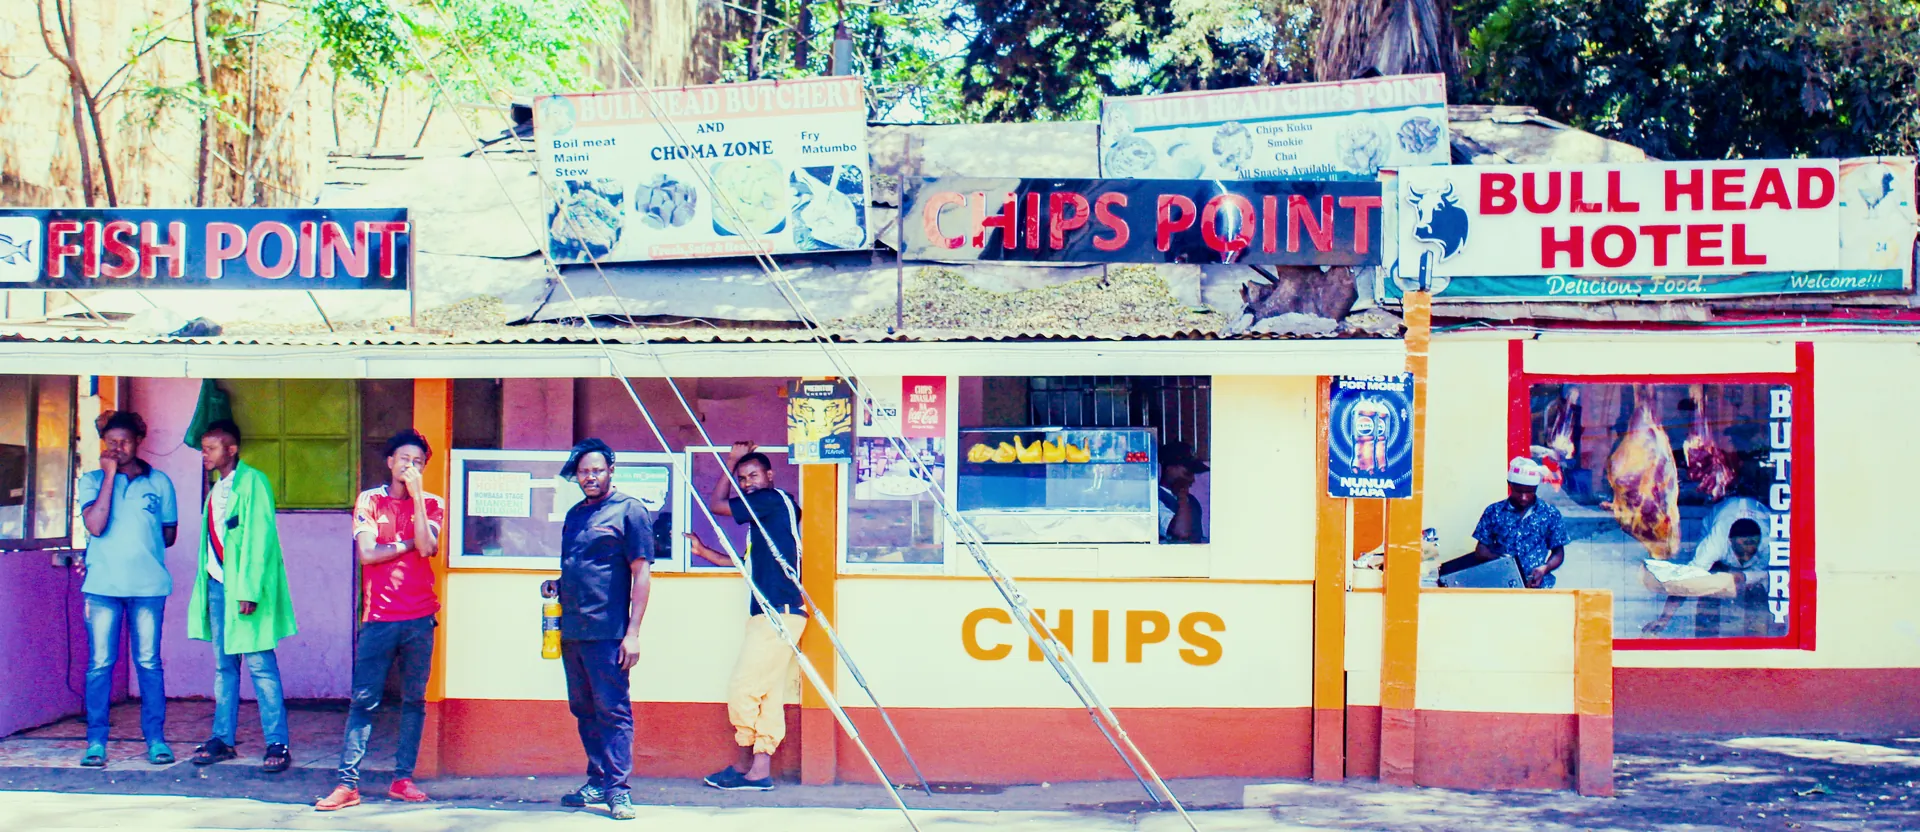
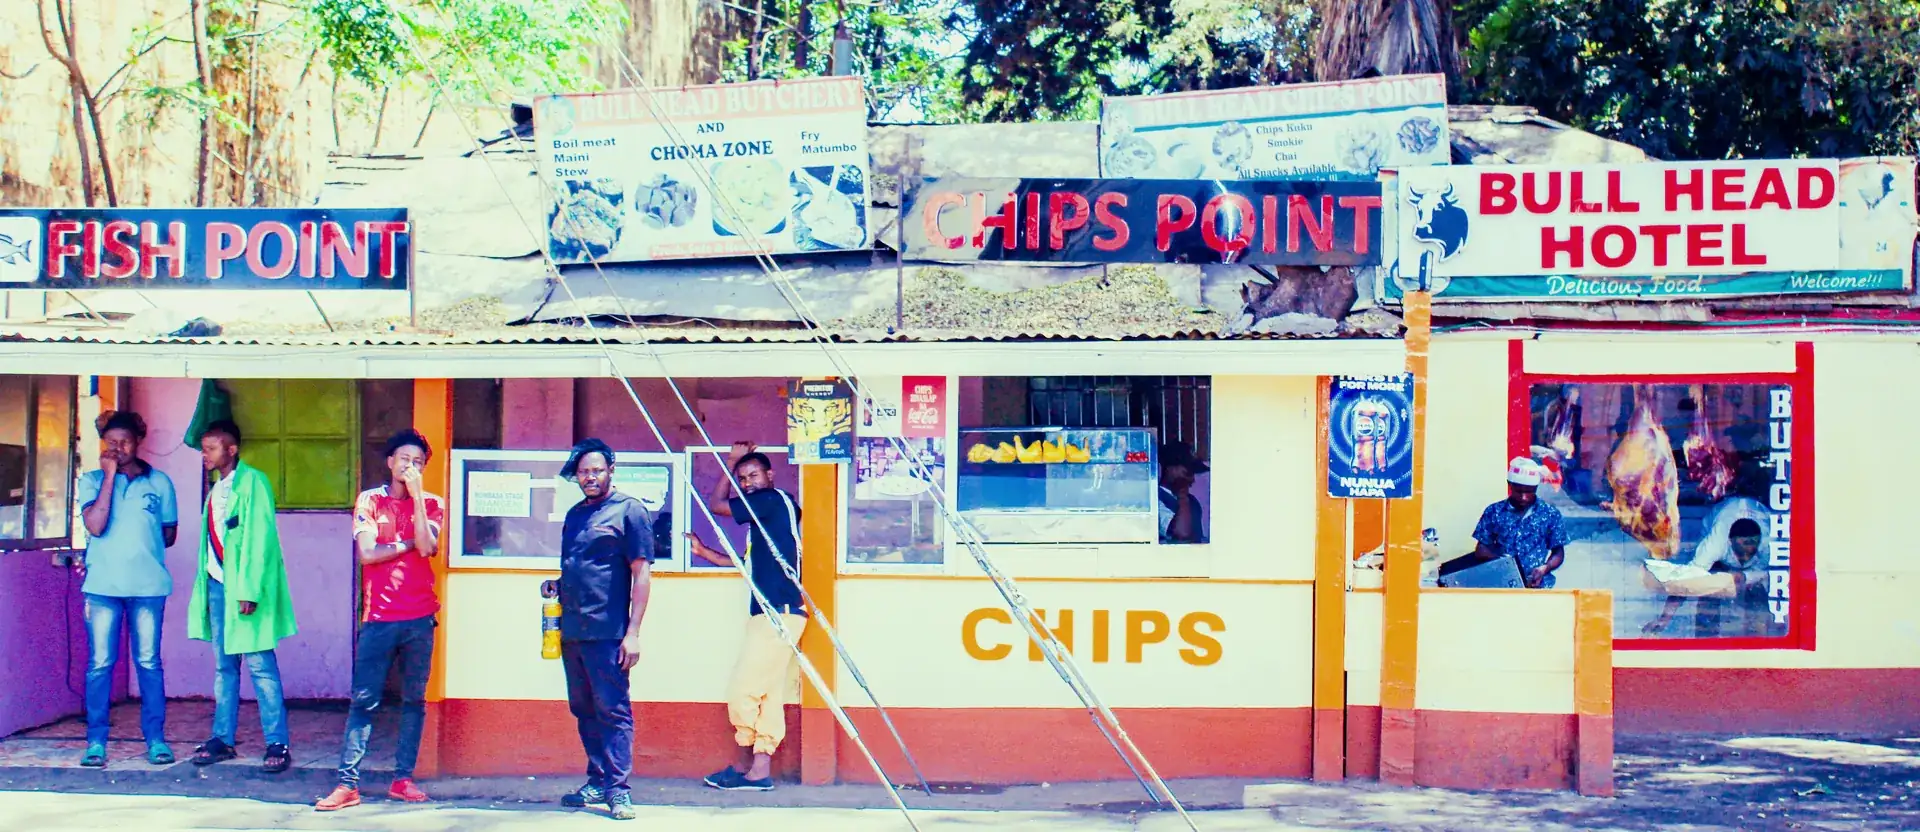
perf: hero preload + recompress, 900w variants for lazy images, webp for storefront card

diff --git a/bullhead-site/index.html b/bullhead-site/index.html
@@ -25,6 +25,7 @@
 <link rel="preconnect" href="https://fonts.gstatic.com" crossorigin>
 <link rel="preload" as="style" href="https://fonts.googleapis.com/css2?family=Fraunces:ital,opsz,wght@0,9..144,400;0,9..144,500;0,9..144,600;0,9..144,700;1,9..144,500&family=Inter:wght@400;500;600;700&display=swap" onload="this.onload=null;this.rel='stylesheet'">
 <noscript><link rel="stylesheet" href="https://fonts.googleapis.com/css2?family=Fraunces:ital,opsz,wght@0,9..144,400;0,9..144,500;0,9..144,600;0,9..144,700;1,9..144,500&family=Inter:wght@400;500;600;700&display=swap"></noscript>
+<link rel="preload" as="image" href="assets/img/hero-storefront.webp" type="image/webp" fetchpriority="high">
 <link rel="stylesheet" href="css/style.css?v=11">
 <link rel="stylesheet" href="css/relay.css?v=2">
 <script type="application/ld+json">
@@ -235,7 +236,7 @@
   <!-- CONDENSED STORY -->
   <section class="story">
     <div class="story-media">
-      <picture><source srcset="assets/img/story-chef-oven.webp" type="image/webp"><img src="assets/img/story-chef-oven.jpg" alt="A Bullhead cook tending the charcoal oven" loading="lazy" decoding="async" width="1200" height="1440"></picture>
+      <picture><source srcset="assets/img/story-chef-oven-900.webp 900w, assets/img/story-chef-oven.webp 1200w" sizes="(max-width: 800px) 100vw, 1200px" type="image/webp"><img src="assets/img/story-chef-oven.jpg" alt="A Bullhead cook tending the charcoal oven" loading="lazy" decoding="async" width="1200" height="1440"></picture>
     </div>
     <div class="story-copy">
       <h2 data-sw="Ilianza kama bucha moja katika mtaa huu.">It started as one butchery on this street.</h2>
@@ -276,7 +277,7 @@
     <h2 data-sw="Angalia Karibu">Look around</h2>
     <div class="explore-grid">
       <a href="/menu" class="explore-card">
-        <picture><source srcset="assets/img/explore-grill.webp" type="image/webp"><img src="assets/img/explore-grill.jpg" alt="Grilled beef served from the hot plate at Bullhead" loading="lazy" decoding="async" width="1200" height="800"></picture>
+        <picture><source srcset="assets/img/explore-grill-900.webp 900w, assets/img/explore-grill.webp 1200w" sizes="(max-width: 800px) 100vw, 1200px" type="image/webp"><img src="assets/img/explore-grill.jpg" alt="Grilled beef served from the hot plate at Bullhead" loading="lazy" decoding="async" width="1200" height="800"></picture>
         <div class="explore-card-scrim"></div>
         <div class="explore-card-label">
           <h3 data-sw="Menyu">The Menu</h3>
@@ -284,7 +285,7 @@
         </div>
       </a>
       <a href="/visit" class="explore-card">
-        <img loading="lazy" src="assets/img/bullhead-two-storefront.jpg" alt="Bullhead Two storefront in Emali" width="1200" height="900">
+        <picture><source srcset="assets/img/bullhead-two-storefront-900.webp 900w, assets/img/bullhead-two-storefront.webp 1200w" sizes="(max-width: 800px) 100vw, 1200px" type="image/webp"><img src="assets/img/bullhead-two-storefront.jpg" alt="Bullhead Two storefront in Emali" loading="lazy" decoding="async" width="1200" height="900"></picture>
         <div class="explore-card-scrim"></div>
         <div class="explore-card-label">
           <h3 data-sw="Tembelea">Visit</h3>
